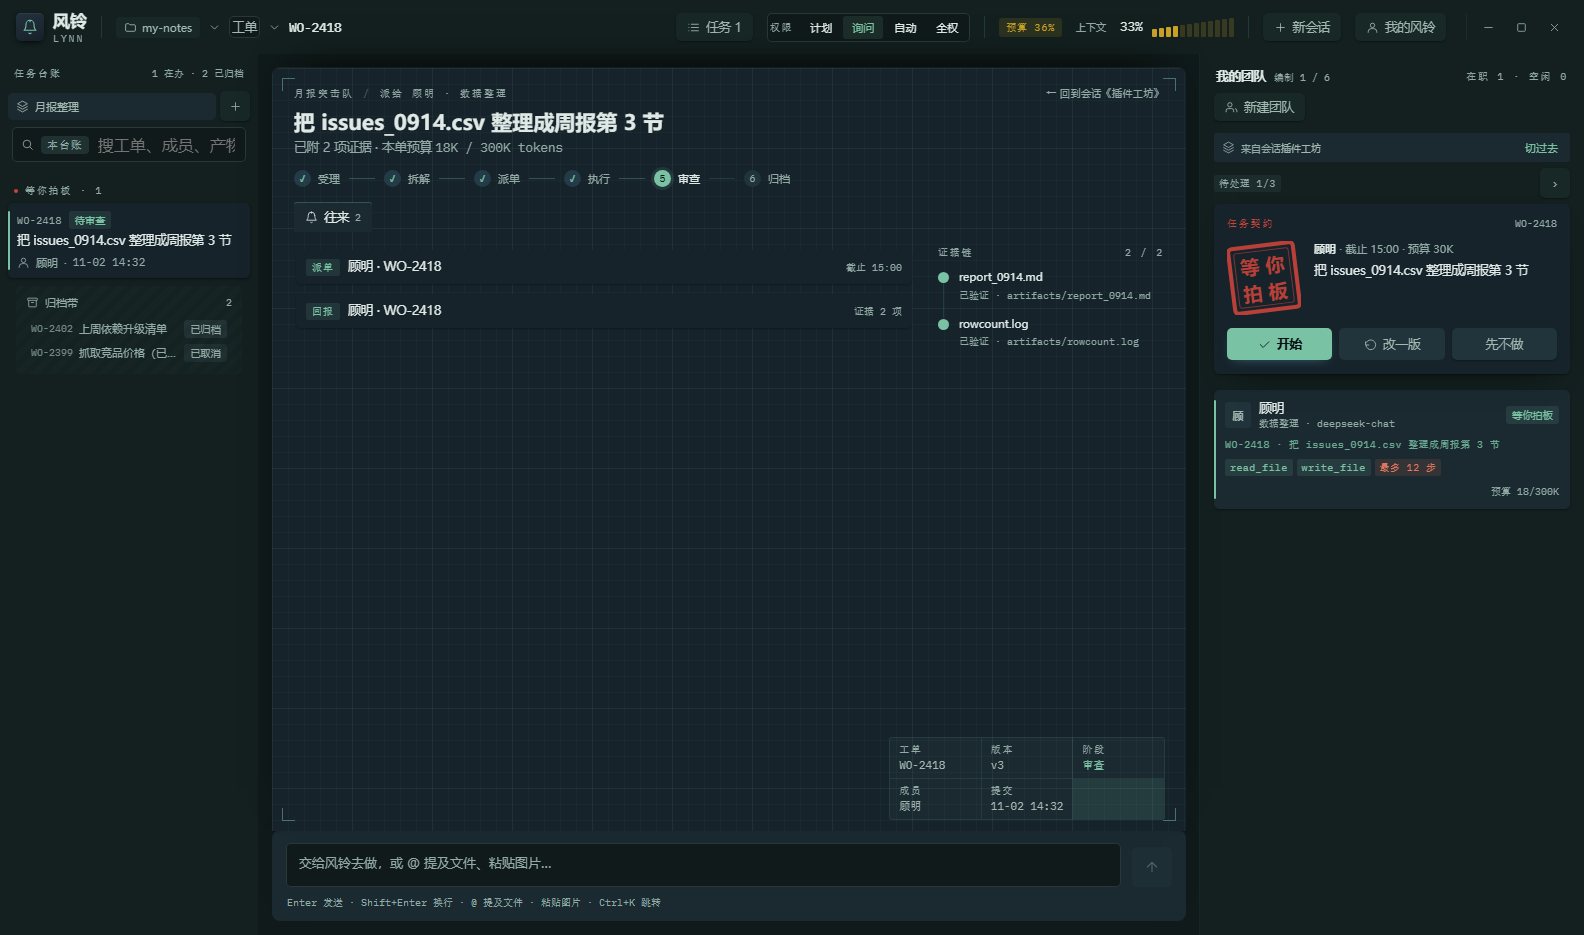
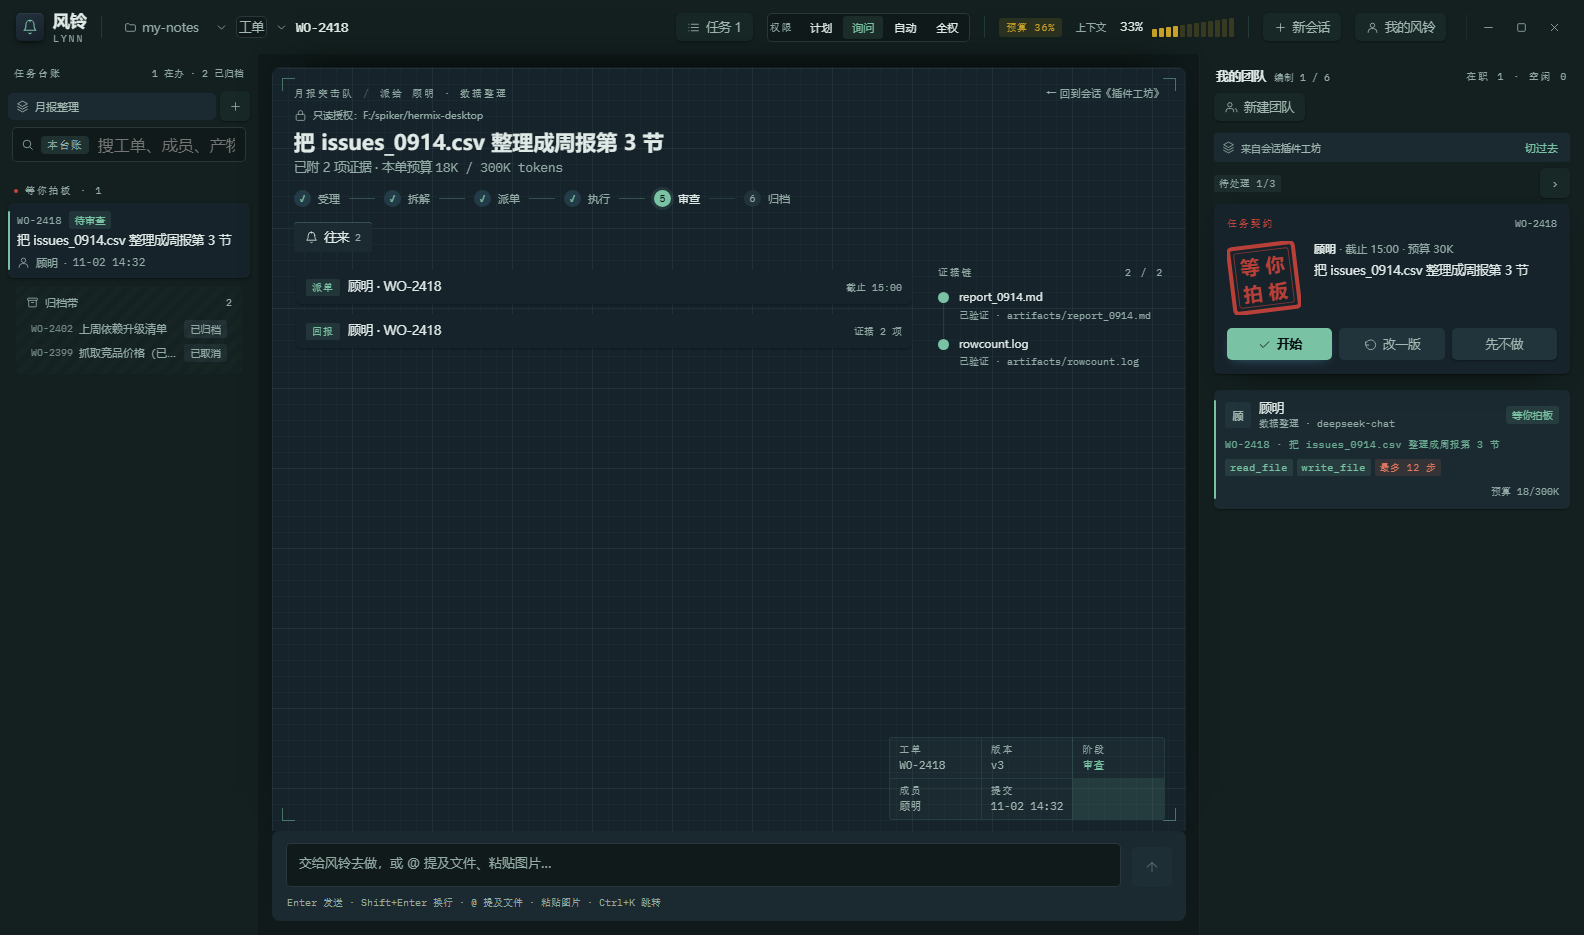
feat(session): 会话级工作区——新会话可选目录，面包屑可换，切回旧会话恢复
用户问「开始对话的时候能否设置工作区」。此前 projectRoot 固定（<dataRoot>/project 或 LYNN_PROJECT_DIR），所有会话共用。现在：①ThreadMeta.projectRoot + ThreadStore.create(title, root)/setProject；②Kernel.applyProjectRoot 换 cwd、重建 Pi 会话、重载项目级 MCP/技能（信任闸照旧，未信任给提示）；③RPC session.new{projectRoot} / project.setRoot，快照 thread 与 threads 带 projectRoot；④前端点「新会话」先选目录（取消=沿用当前），顶栏面包屑项目名可点换当前会话工作区。新增 tests/project-root.test.mjs 2 条，全量 328/328。

diff --git a/src/main/kernel.ts b/src/main/kernel.ts
@@ -870,6 +870,20 @@ export class Kernel {
     return true;
   }
 
+  /**
+   * 换工作区：改 projectRoot、重建 Pi 会话（cwd 跟着走）、重载项目级 MCP/技能。
+   * 目录存不存在由调用方校验（切会话恢复历史路径时不强校验——用户可能只是临时移走了）。
+   */
+  private applyProjectRoot(root: string): void {
+    const abs = path.resolve(root);
+    if (abs === this.projectRoot) return;
+    this.projectRoot = abs;
+    this.createFreshSession = true;
+    void this.resetAgentHost();
+    void this.reloadMcp();
+    this.log("project_root", { root: abs, trusted: this.trust.isTrusted(abs) });
+  }
+
   private persistThread(): void {
     if (!this.currentThreadId) return;
     try {
@@ -924,6 +938,10 @@ export class Kernel {
     }
     this.history = st.history;
     this.liveCard = null;
+    // 会话各带一个工作区：切回来要回到它自己的目录（不同项目的 @ 检索与 Pi cwd 不能串）
+    if (meta.projectRoot && path.resolve(meta.projectRoot) !== this.projectRoot) {
+      this.applyProjectRoot(meta.projectRoot);
+    }
     this.createFreshSession = true;
     void this.resetAgentHost();
     this.checkpoints.discard();
@@ -2797,6 +2815,7 @@ export class Kernel {
           thread: {
             id: this.currentThreadId,
             title: this.threads.get(this.currentThreadId)?.title ?? "新会话",
+            projectRoot: this.threads.get(this.currentThreadId)?.projectRoot,
           },
           threads: this.threads
             .list()
@@ -3643,10 +3662,31 @@ export class Kernel {
         return { cards: [] } as RpcContracts[M]["result"];
       }
 
+      case "project.setRoot": {
+        const { root } = params as { root: string };
+        const abs = path.resolve(String(root));
+        try {
+          if (!fs.statSync(abs).isDirectory()) {
+            return { ok: false, error: `${abs} 不是目录` } as RpcContracts[M]["result"];
+          }
+        } catch {
+          return { ok: false, error: `目录不存在：${abs}` } as RpcContracts[M]["result"];
+        }
+        const from = this.projectRoot;
+        this.applyProjectRoot(abs);
+        if (this.currentThreadId) this.threads.setProject(this.currentThreadId, abs);
+        this.card({
+          kind: "system",
+          text: `工作区已换成 ${abs}（原 ${from}）。@ 文件检索、附件与 Pi 的 cwd 都跟着走；项目级插件/MCP 只有该目录被信任时才加载。`,
+        });
+        return { ok: true, root: abs, trusted: this.trust.isTrusted(abs) } as RpcContracts[M]["result"];
+      }
+
       case "session.new": {
         // 新对话 = 新线程：旧会话留在磁盘上可切回，不再清空历史
+        const { projectRoot } = (params ?? {}) as { projectRoot?: string };
         this.persistThread();
-        const meta = this.threads.create("新会话");
+        const meta = this.threads.create("新会话", projectRoot ? String(projectRoot) : undefined);
         // C4：切走前把还在跑的单记下来——用户以为"从头开始"，后台其实还在烧预算、还可能弹审批
         const running = [...this.memberRuns.keys()];
         this.switchThread(meta.id);

diff --git a/src/renderer/desk/Desk.tsx b/src/renderer/desk/Desk.tsx
@@ -77,6 +77,7 @@ function TopRail({
   mode = "desk",
   onBack,
   onOverview,
+  onPickProject,
 }: {
   desk: Desk;
   current?: DeskJob;
@@ -94,6 +95,8 @@ function TopRail({
   onBack?: () => void;
   /** 任务总览（几个任务在跑、各在哪、进度多少） */
   onOverview?: () => void;
+  /** 换当前会话的工作区（项目根） */
+  onPickProject?: () => void;
 }) {
   const ctx = desk.usage.contextWindow > 0 ? Math.min(1, desk.usage.contextTokens / desk.usage.contextWindow) : 0;
   const contextPct = Math.round(ctx * 100);
@@ -130,9 +133,16 @@ function TopRail({
         </button>
       )}
       <div className="crumbs">
-        <span className="crumb-chip">
+        {/* 项目名可点：换当前会话的工作区（@ 检索、附件、Pi 的 cwd 都跟着走） */}
+        <button
+          type="button"
+          className="crumb-chip crumb-btn"
+          onClick={onPickProject}
+          disabled={!onPickProject}
+          title={t("top.projectHint", { dir: desk.project })}
+        >
           <Icon name="folder" size="sm" /> {desk.project}
-        </span>
+        </button>
         <Icon name="chev" size="sm" />
         <span className="seg">{mode === "review" ? t("top.crumbReview") : t("top.crumbJob")}</span>
         <Icon name="chev" size="sm" />
@@ -2766,6 +2776,7 @@ export function DeskView({
   onFileSearch,
   onFeedAction,
   onOpenSettings,
+  onPickProject,
   onStandby,
   onNew,
   onUndo,
@@ -2798,6 +2809,8 @@ export function DeskView({
   onDecisionResolve: (id: string, action: "answer" | "start" | "revise" | "reject", text?: string) => void;
   onFeedAction: (card: FeedCard) => void;
   onOpenSettings: () => void;
+  /** 换当前会话的工作区 */
+  onPickProject?: () => void;
   onStandby: () => void;
   onNew?: () => void;
   onUndo?: () => void;
@@ -2894,6 +2907,7 @@ export function DeskView({
         rightOpen={rightOpen}
         onToggleRight={() => setRightOpen((v) => !v)}
         onOverview={() => setOverviewOpen(true)}
+        onPickProject={onPickProject}
       />
       {rightOpen && <button type="button" className="right-backdrop only-narrow" aria-label="close" onClick={() => setRightOpen(false)} />}
       <div className="body">

diff --git a/src/renderer/App.tsx b/src/renderer/App.tsx
@@ -285,14 +285,40 @@ export default function App() {
     [refresh],
   );
 
-  /** 新对话：清空当前会话（工单、卷宗、成员档案保留） */
+  /**
+   * 新对话：先问"这个会话用哪个工作区"（取消 = 沿用当前）。
+   * 不同会话各带一个工作区，"审查 A 项目"和"整理 B 资料"不会串目录。
+   */
   const onNew = useCallback(async () => {
     setNotice(null);
     try {
-      await rpc("session.new");
+      let projectRoot: string | undefined;
+      try {
+        const picked = await rpc("app.pickDir", { title: "新会话的工作区（取消 = 沿用当前工作区）" });
+        projectRoot = picked?.path;
+      } catch {
+        // 旧内核没有 app.pickDir：沿用当前工作区，不打断新建
+        projectRoot = undefined;
+      }
+      await rpc("session.new", projectRoot ? { projectRoot } : {});
       await refresh();
     } catch (err) {
       setNotice(`新对话失败：${err instanceof Error ? err.message : String(err)}`);
+    }
+  }, [refresh]);
+
+  /** 换当前会话的工作区（点顶栏面包屑里的项目名） */
+  const onPickProject = useCallback(async () => {
+    setNotice(null);
+    try {
+      const picked = await rpc("app.pickDir", { title: "选择这个会话的工作区" });
+      if (!picked?.path) return;
+      const r = await rpc("project.setRoot", { root: picked.path });
+      if (!r.ok) setNotice(r.error ?? "换工作区失败");
+      else if (!r.trusted) setNotice("工作区已切换；这个目录还没被信任，项目级插件与 MCP 不会加载。");
+      await refresh();
+    } catch (err) {
+      setNotice(rpcErrorText(err, "换工作区失败"));
     }
   }, [refresh]);
 
@@ -440,6 +466,7 @@ export default function App() {
         onDecisionResolve={(id, a, text) => void onDecisionResolve(id, a, text)}
         onFeedAction={onFeedAction}
         onOpenSettings={() => setSettingsOpen(true)}
+        onPickProject={() => void onPickProject()}
         onStandby={() => setStandby(true)}
         onNew={() => void onNew()}
         onUndo={() => void onUndo()}

diff --git a/src/main/threads.ts b/src/main/threads.ts
@@ -9,6 +9,11 @@ export interface ThreadMeta {
   title: string;
   createdAt: string;
   updatedAt: string;
+  /**
+   * 这个会话的工作区（项目根）：开会话时可以选，之后也能改。
+   * 不同会话各带一个工作区，"审查 A 项目"和"整理 B 资料"不会互相串目录。
+   */
+  projectRoot?: string;
 }
 
 export interface ThreadState {
@@ -47,13 +52,14 @@ export class ThreadStore {
     return this.list().find((t) => t.id === id) ?? null;
   }
 
-  create(title?: string): ThreadMeta {
+  create(title?: string, projectRoot?: string): ThreadMeta {
     const at = new Date().toISOString();
     const meta: ThreadMeta = {
       id: `th-${Date.now().toString(36)}-${Math.random().toString(36).slice(2, 6)}`,
       title: (title?.trim() || "新会话").slice(0, 40),
       createdAt: at,
       updatedAt: at,
+      ...(projectRoot ? { projectRoot: path.resolve(projectRoot) } : {}),
     };
     const threads = this.list();
     threads.unshift(meta);
@@ -61,6 +67,17 @@ export class ThreadStore {
     this.saveState(meta.id, { feed: [], history: [] });
     fs.mkdirSync(this.piDir(meta.id), { recursive: true });
     return meta;
+  }
+
+  /** 改这个会话的工作区（下次切回来还是它） */
+  setProject(id: string, projectRoot: string): ThreadMeta {
+    const threads = this.list();
+    const t = threads.find((x) => x.id === id);
+    if (!t) throw new Error(`会话不存在：${id}`);
+    t.projectRoot = path.resolve(projectRoot);
+    t.updatedAt = new Date().toISOString();
+    this.writeIndex(threads);
+    return t;
   }
 
   rename(id: string, title: string): ThreadMeta {

diff --git a/src/shared/contract.ts b/src/shared/contract.ts
@@ -263,9 +263,15 @@ export interface SessionSnapshot {
   /** 当前项目：项目级扩展只在 trusted 时加载（M1-13） */
   project: { root: string; trusted: boolean; hasMcp: boolean };
   /** 当前会话线程与线程列表（M1-14） */
-  thread: { id: string; title: string };
+  thread: { id: string; title: string; projectRoot?: string };
   /** C3：会话行显示"这个会话派出过多少单"（后端按 task.threadId 汇总） */
-  threads: { id: string; title: string; updatedAt: string; counts?: { active: number; archived: number } }[];
+  threads: {
+    id: string;
+    title: string;
+    updatedAt: string;
+    projectRoot?: string;
+    counts?: { active: number; archived: number };
+  }[];
   /** 真在跑的成员单（不只 status=in_progress：卡住但没在跑的不能算） */
   running?: string[];
   permission: PermissionMode;
@@ -720,8 +726,14 @@ export interface RpcContracts {
     result: { ok: boolean };
   };
   "session.new": {
-    params: void;
-    result: { ok: true };
+    /** projectRoot：这个会话的工作区（开会话时选；不传 = 沿用当前） */
+    params: { projectRoot?: string };
+    result: { ok: true; threadId?: string };
+  };
+  /** 换当前会话的工作区：影响 @ 检索、附件、Pi 的 cwd、项目级插件与 MCP */
+  "project.setRoot": {
+    params: { root: string };
+    result: { ok: boolean; root?: string; trusted?: boolean; error?: string };
   };
   /** 自绘标题栏（frame:false）：最小化 / 最大化还原 / 关闭（关闭尊重"关窗进托盘"设置） */
   "window.control": {

diff --git a/src/shared/i18n-strings.ts b/src/shared/i18n-strings.ts
@@ -44,6 +44,7 @@ export const ZH_STRINGS: Record<string, string> = {
   "top.undo": "撤销改动",
   "top.undoTitle": "撤销上一轮文件改动：{files}",
   "top.newThread": "新会话",
+  "top.projectHint": "当前工作区：{dir}（点这里换）",
   "top.searchHistory": "搜历史：关键词",
   "top.searchBoard": "搜工单、成员、产物",
   "top.scopeThreads": "会话全文",
@@ -403,6 +404,7 @@ export const EN_STRINGS: Record<string, string> = {
   "top.undo": "Undo changes",
   "top.undoTitle": "Undo last-turn file changes: {files}",
   "top.newThread": "New session",
+  "top.projectHint": "Workspace: {dir} (click to change)",
   "top.searchHistory": "Search history",
   "top.searchBoard": "Search tasks, members, artifacts",
   "top.scopeThreads": "All threads",

diff --git a/src/renderer/styles/dispatch.css b/src/renderer/styles/dispatch.css
@@ -1503,6 +1503,9 @@ html[data-theme="celadon"][data-mode="light"] {
 }
 
 /* 亮色主题下不再用硬编码深色做 hover（那是"文字消失"的根因） */
+/* 面包屑项目名可点（换当前会话的工作区）：去掉按钮默认外观，保持 chip 质感 */
+.crumb-btn { border: 0; background: none; font: inherit; color: inherit; cursor: pointer; }
+.crumb-btn:disabled { cursor: default; }
 .crumb-chip:hover,
 .icon-btn:hover { background: var(--hover-bg); }
 .ghost-btn:hover { background: var(--hover-bg-2); }

diff --git a/src/renderer/components/SettingsModal.tsx b/src/renderer/components/SettingsModal.tsx
@@ -736,7 +736,7 @@ export function SettingsModal({
               className="sf-btn"
               onClick={() => {
                 if (!window.confirm(t("data.clearConfirm"))) return;
-                void window.lynn.rpc("session.new").then(() => {
+                void window.lynn.rpc("session.new", {}).then(() => {
                   setPackMsg(t("data.cleared"));
                   onSaved();
                 });
